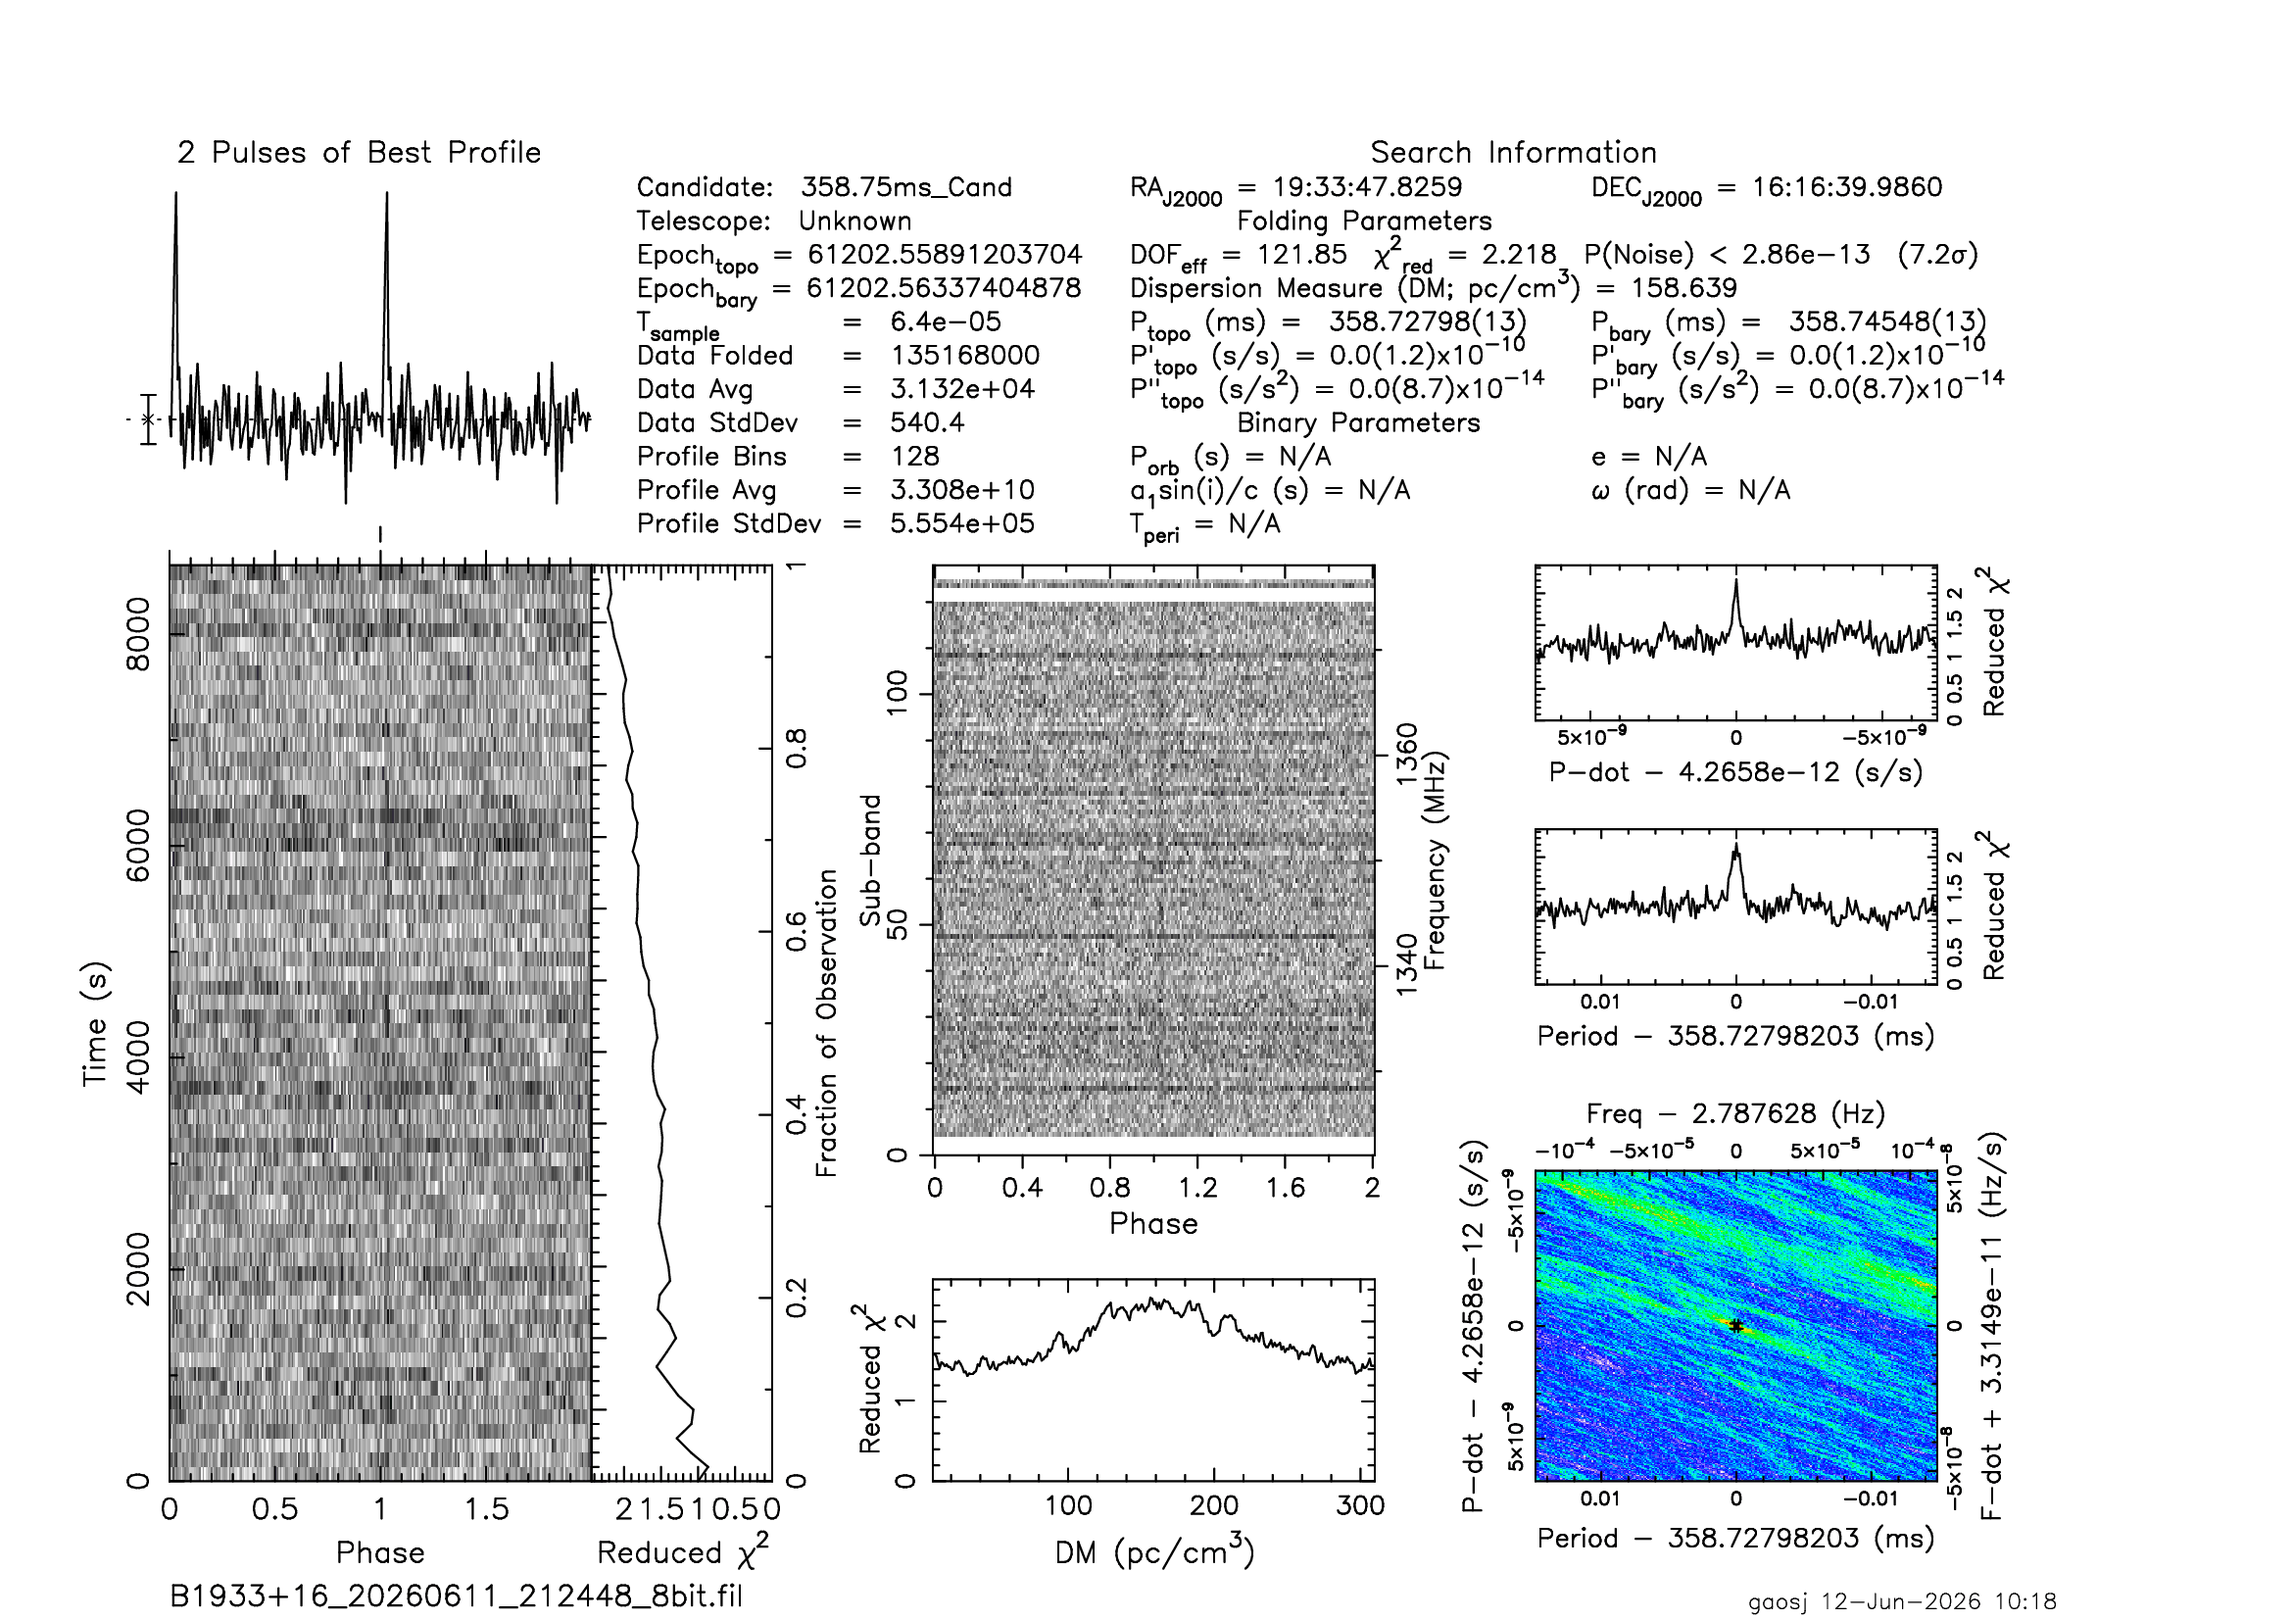
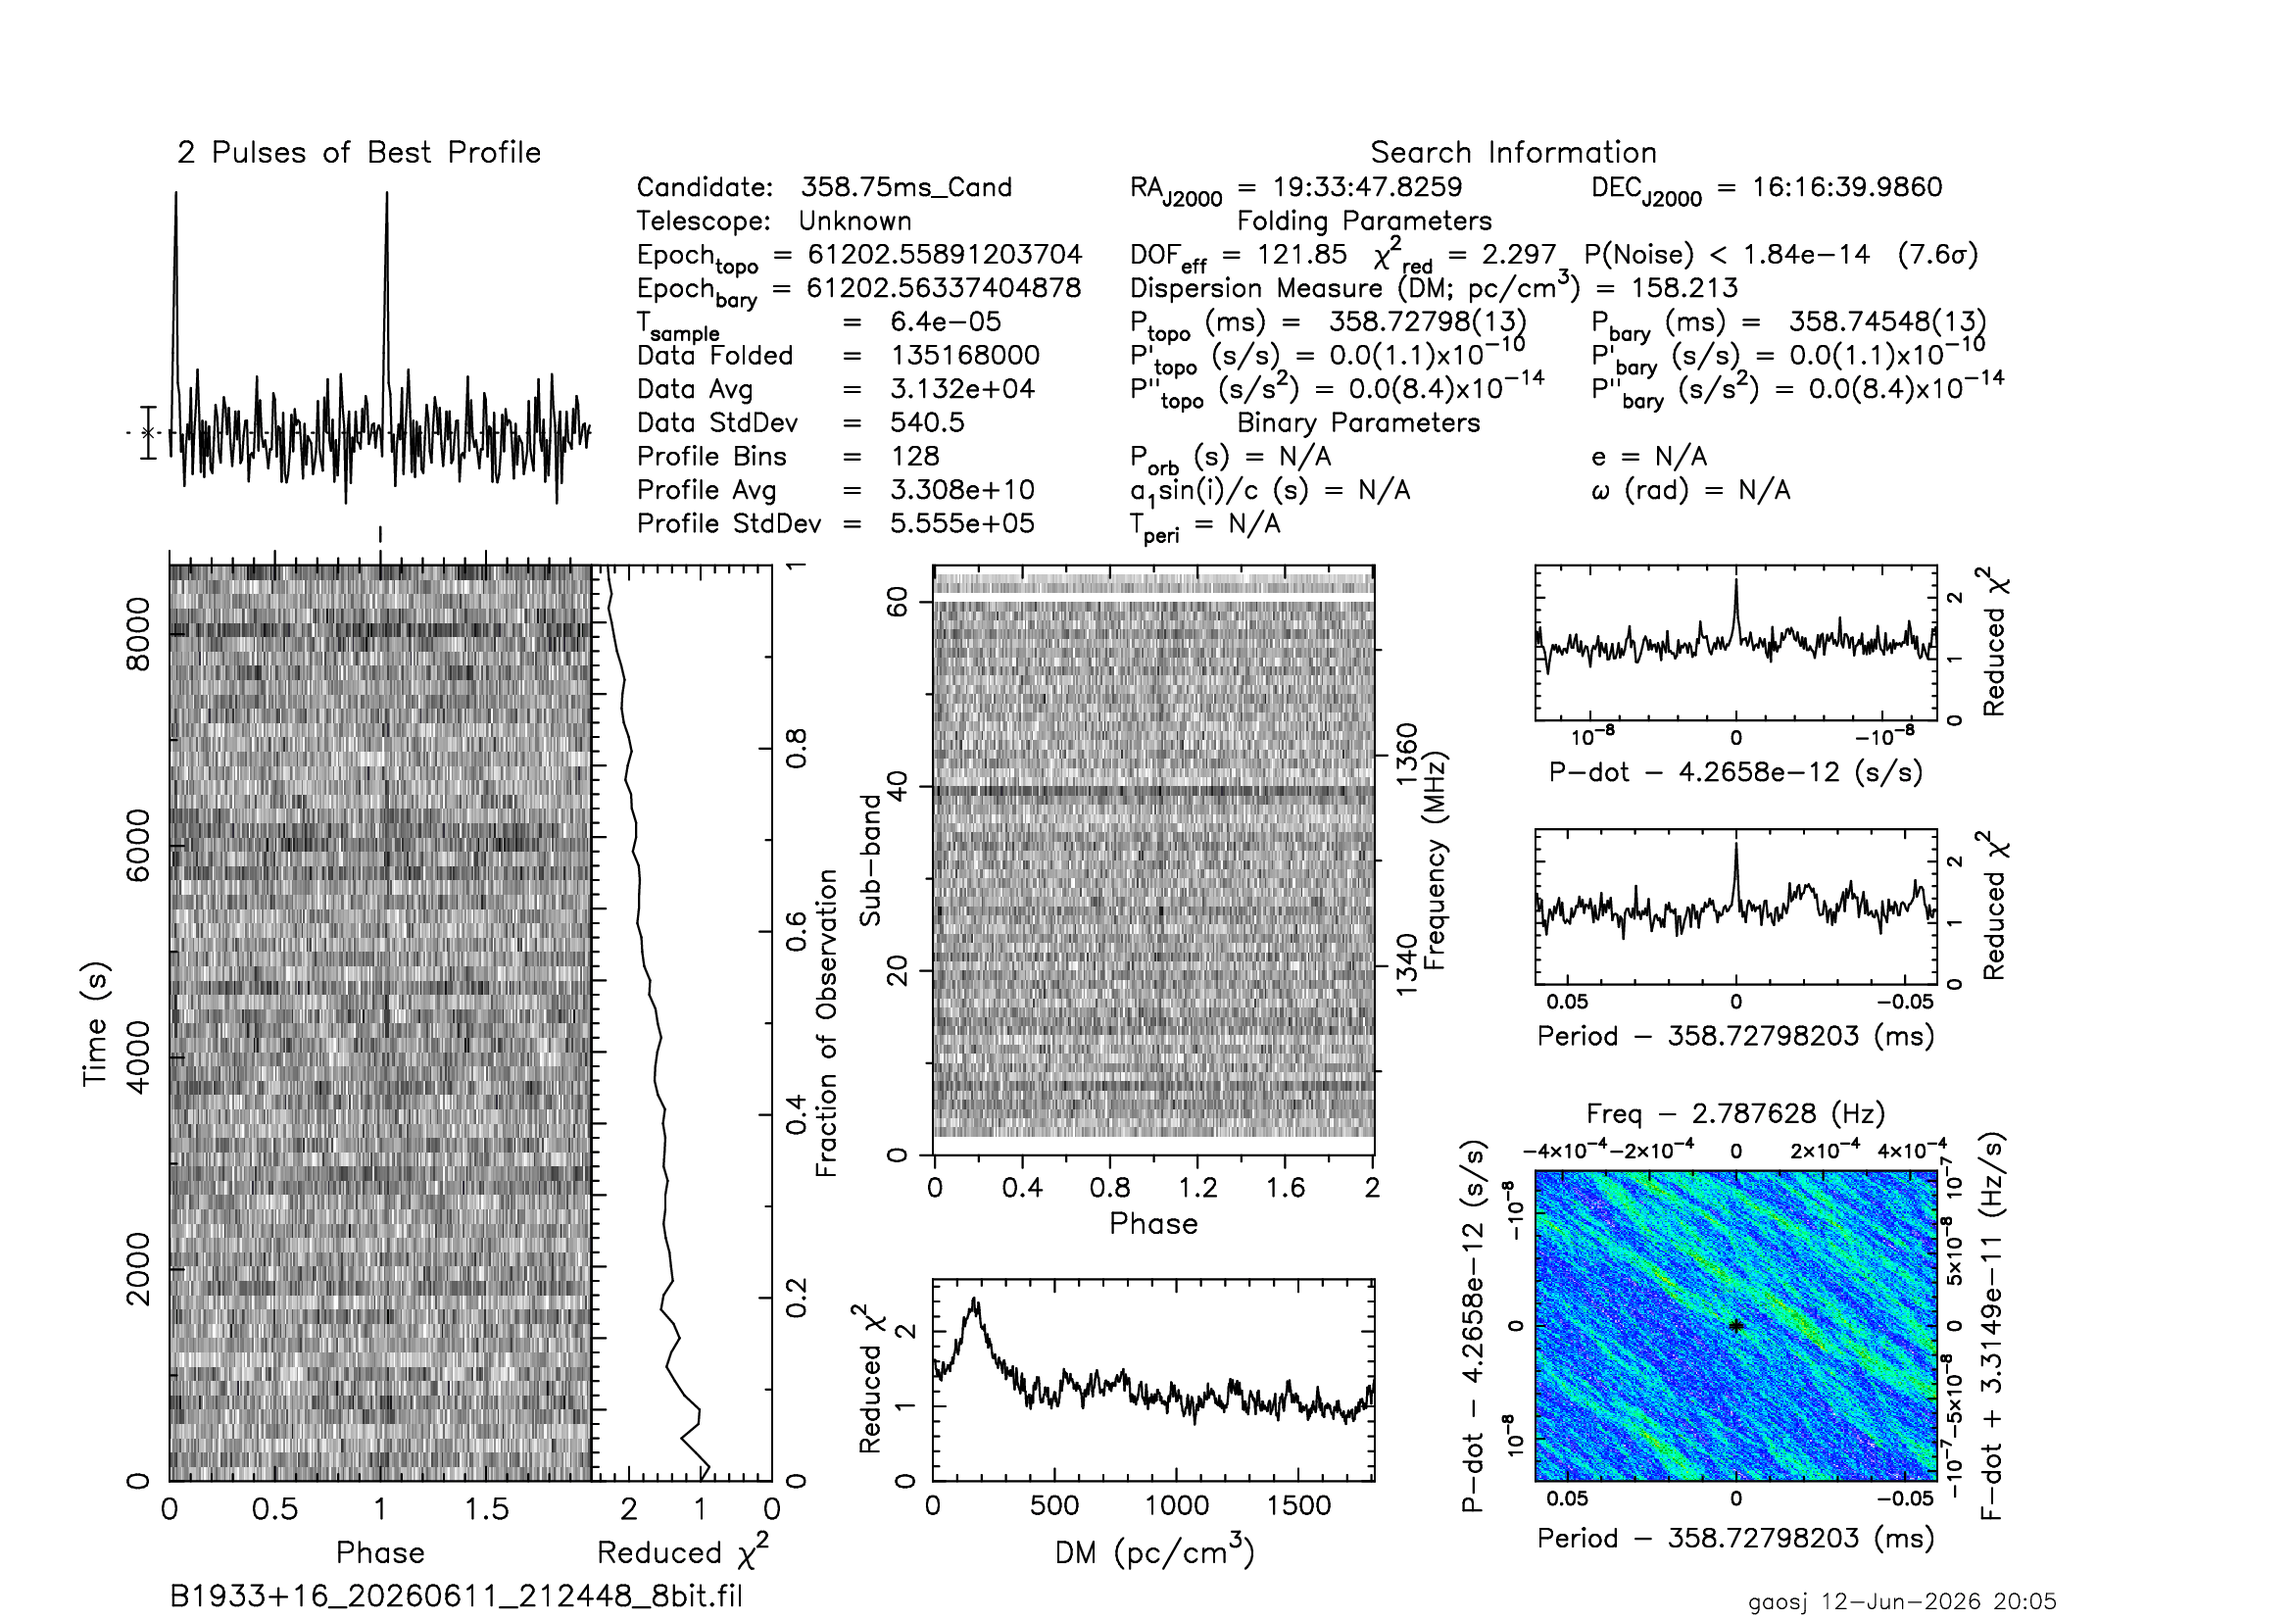
add PSRs

diff --git a/_pages/zuo-dijiang-observatory.md b/_pages/zuo-dijiang-observatory.md
@@ -154,7 +154,9 @@ This short clip turns one of our Vela pulsar detections into sound. The regular 
 {% assign crab = site.static_files | where: "path", "/images/njurt/crabGP.png" | first %}
 {% assign vela = site.static_files | where: "path", "/images/njurt/B0833-45_prepfold.png" | first %}
 {% assign b0950 = site.static_files | where: "path", "/images/njurt/B0950+08.png" | first %}
+{% assign b1641 = site.static_files | where: "path", "/images/njurt/B1641-45.png" | first %}
 {% assign b1933 = site.static_files | where: "path", "/images/njurt/B1933+16.png" | first %}
+{% assign j0437 = site.static_files | where: "path", "/images/njurt/J0437-4715.png" | first %}
 
 <section class="pulsar-detection">
   <div>
@@ -218,6 +220,26 @@ This short clip turns one of our Vela pulsar detections into sound. The regular 
 
 <section class="pulsar-detection">
   <div>
+    <h3>PSR B1641-45</h3>
+    <div class="pulsar-meta">PRESTO prepfold detection</div>
+    <p><a href="https://www.atnf.csiro.au/research/pulsar/psrcat/proc_form.php?Name=B1641-45&amp;submit=Table">B1641-45</a> is a bright southern pulsar. Its DM is much larger than the nearby pulsars on this page, so the radio signal has crossed a lot more free electrons before reaching us.</p>
+    <ul class="pulsar-facts">
+      <li>Folded period: about 455.09 ms</li>
+      <li>DM: about 479.29 pc cm<sup>-3</sup></li>
+      <li>A strong high-DM test source for the NJU 4.5-m telescope</li>
+    </ul>
+  </div>
+  <figure>
+    {% if b1641 %}
+      <img src="/images/njurt/B1641-45.png" alt="PRESTO prepfold detection figure for PSR B1641-45">
+    {% else %}
+      <div class="signal-placeholder">Add figure: images/njurt/B1641-45.png</div>
+    {% endif %}
+  </figure>
+</section>
+
+<section class="pulsar-detection">
+  <div>
     <h3>Crab Pulsar, PSR B0531+21</h3>
     <div class="pulsar-meta">Giant pulses detected using CODD</div>
     <p>The <a href="https://en.wikipedia.org/wiki/Crab_Pulsar">Crab pulsar</a> is in the Crab Nebula, which came from the supernova seen in 1054. Here I show giant pulses: very short and bright radio flashes from the pulsar.</p>
@@ -252,6 +274,26 @@ This short clip turns one of our Vela pulsar detections into sound. The regular 
       <img src="/images/njurt/B0833-45_prepfold.png" alt="PRESTO prepfold detection figure for the Vela pulsar PSR B0833-45">
     {% else %}
       <div class="signal-placeholder">Add figure: images/njurt/B0833-45_prepfold.png</div>
+    {% endif %}
+  </figure>
+</section>
+
+<section class="pulsar-detection">
+  <div>
+    <h3>PSR J0437-4715</h3>
+    <div class="pulsar-meta">PRESTO prepfold detection of a millisecond pulsar</div>
+    <p><a href="https://en.wikipedia.org/wiki/PSR_J0437%E2%88%924715">J0437-4715</a> is a nearby millisecond pulsar in a binary system. It spins very fast, about 174 times each second. Catching this kind of signal is a nice test of timing, folding, and the whole observing chain.</p>
+    <ul class="pulsar-facts">
+      <li>Folded period: about 5.76 ms</li>
+      <li>DM: about 2.66 pc cm<sup>-3</sup></li>
+      <li>A fast and nearby millisecond pulsar</li>
+    </ul>
+  </div>
+  <figure>
+    {% if j0437 %}
+      <img src="/images/njurt/J0437-4715.png" alt="PRESTO prepfold detection figure for PSR J0437-4715">
+    {% else %}
+      <div class="signal-placeholder">Add figure: images/njurt/J0437-4715.png</div>
     {% endif %}
   </figure>
 </section>
